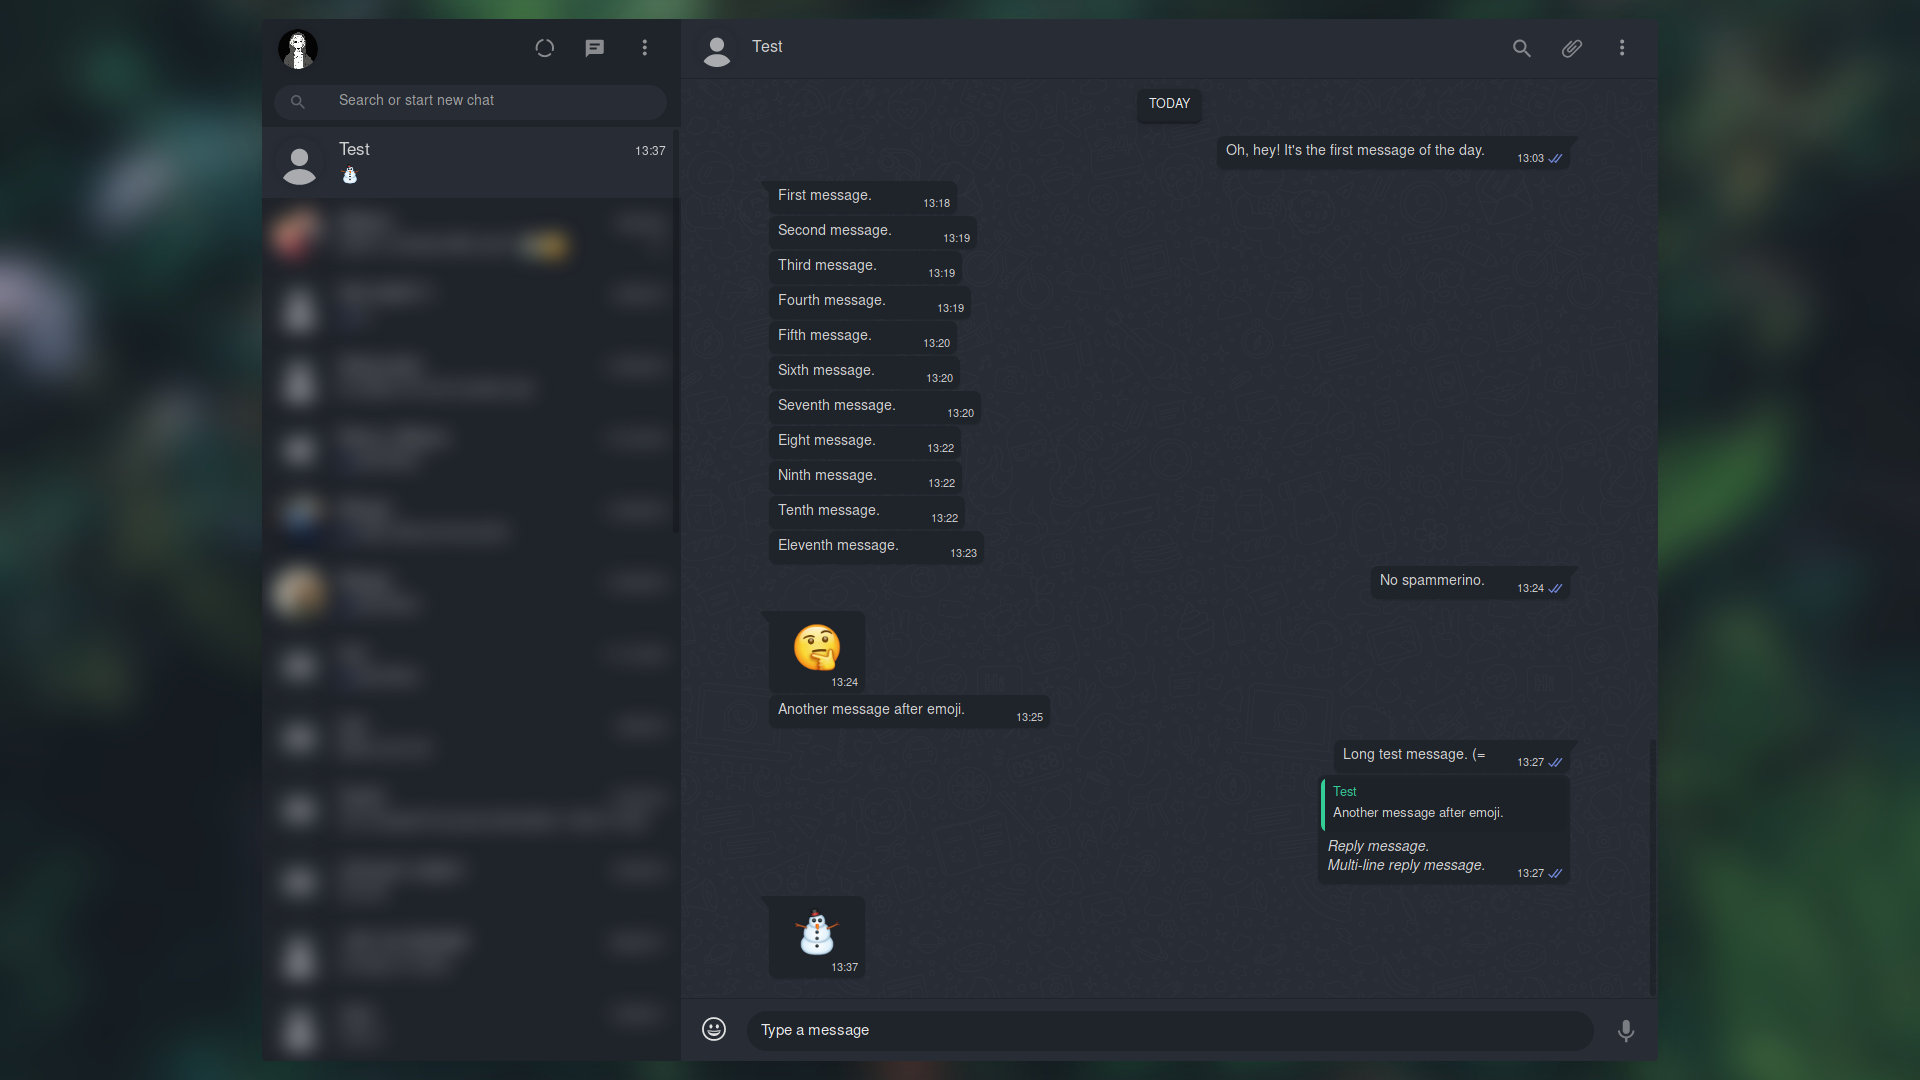
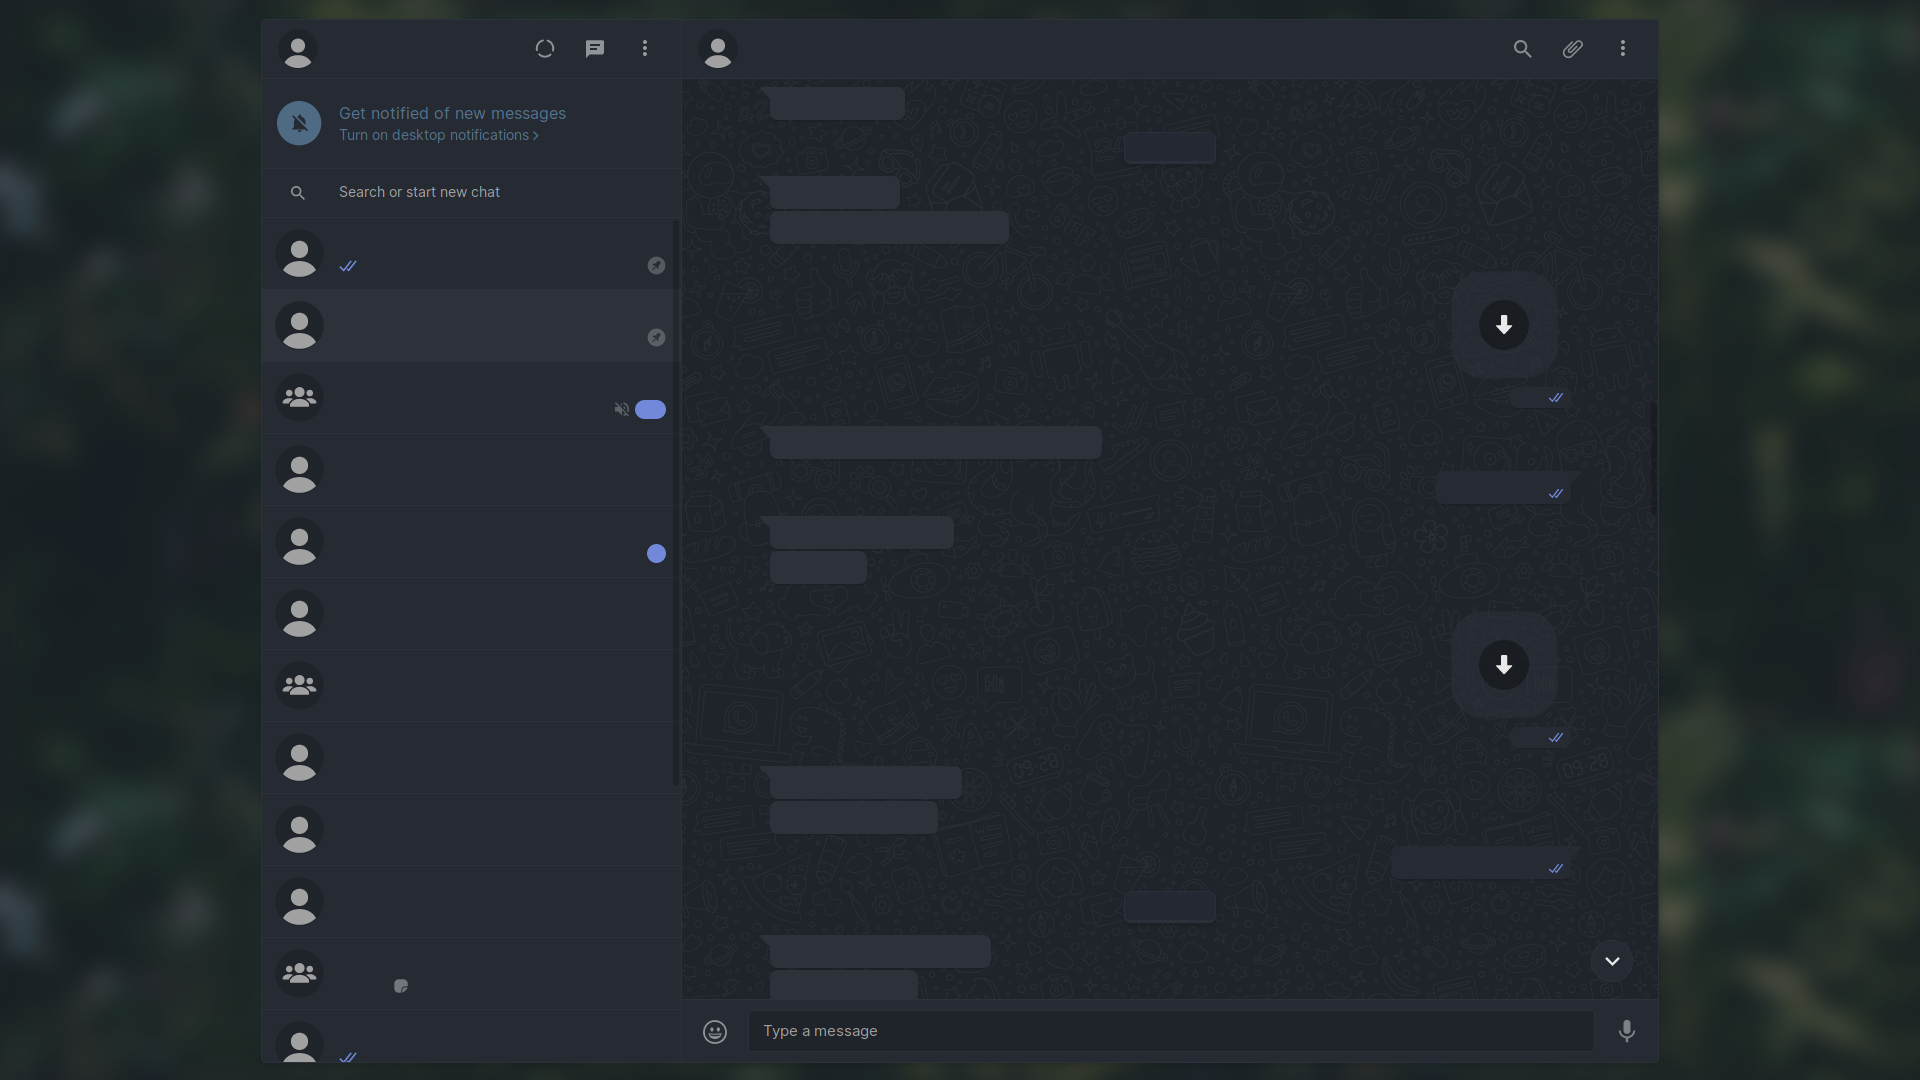
docs: update preview image and install link

diff --git a/README.md b/README.md
@@ -19,7 +19,7 @@ Complete, feature-rich, very customizable userstyle for WhatsApp.
 
 ## Preview
 
-Version 1.3.0 with default settings.
+Version 2.0.0 with default options, and Inter as the UI font.
 
 ![preview](images/preview.png)
 
@@ -31,7 +31,7 @@ To use this style you have to install [Stylus](https://add0n.com/stylus.html) an
 [![Install directly with Stylus][badge]][style]
 
 [badge]: https://img.shields.io/badge/Install%20directly%20with-Stylus-116b59.svg?longCache=true&style=for-the-badge
-[style]: https://raw.githubusercontent.com/vednoc/onyx/master/WhatsApp.user.css
+[style]: https://raw.githubusercontent.com/vednoc/dark-whatsapp/master/wa.user.styl
 
 **NOTE:** _Stylish_ is only supported through [userstyles.org](https://userstyles.org/styles/142096); it's obsolete, please replace it with Stylus.
 
